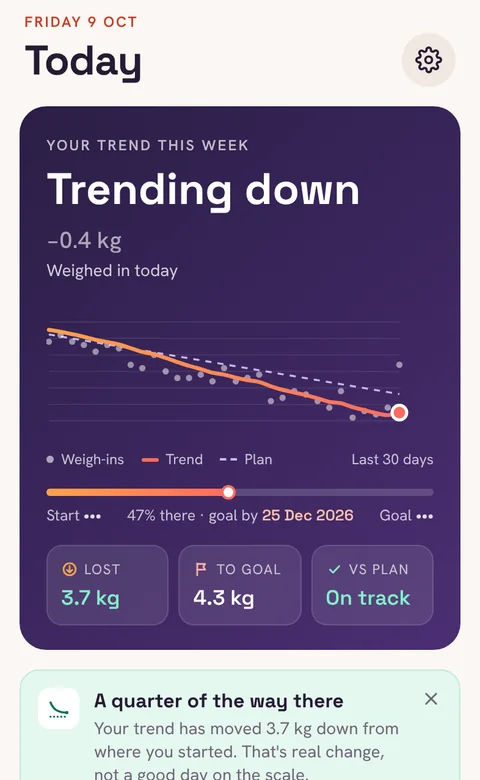
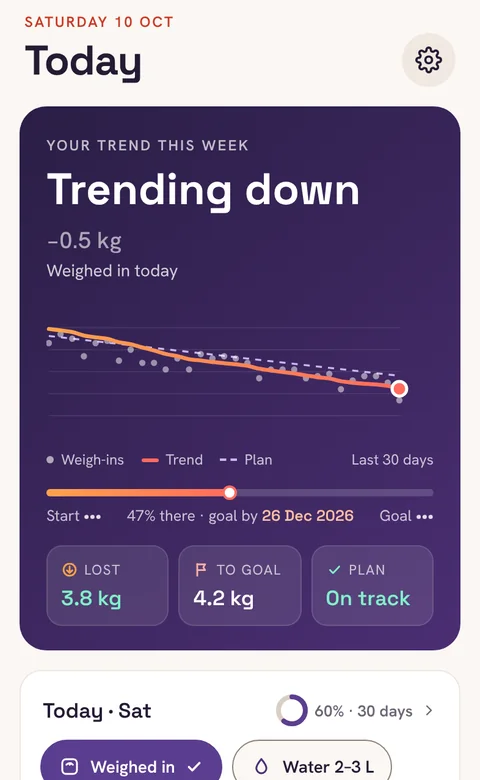
Website: refresh the images that show Today and the weigh-in sheet
The hero iPhone and five deck cards (Today, log weight, hide my weight,
dose, protein) are re-shot from the current app: today's list under the
hero, "Plan" on the chip, "What's this?" on trend weight, the folded
weigh-in sheet with a tag picked, and This week without the Pace tile.
Same framing and sizes as before; alt text updated to match.

Claude-Session: https://claude.ai/code/session_01NJzQ8Sbwud31aT5mXSmaWd

diff --git a/site/index.html b/site/index.html
@@ -353,7 +353,7 @@
 
       <div class="fan" id="fan">
         <figure class="card card-l"><img src="shots/device-duo.webp" width="880" height="1239" alt="An iPhone Duo opened out, showing the Trend screen: trend weight 88.2 kg, losing 0.5 kg a week, and a note that the last weigh-in dropped 0.8 kg while the trend moved 0.1 kg." decoding="async"></figure>
-        <figure class="card card-c"><img src="shots/device-iphone.webp" width="600" height="1260" alt="An iPhone showing the Today screen: trend weight 88.2 kg with the last 30 days charted behind it, daily weigh-ins as dots around a calm trend line and the plan dashed, then progress from 92 towards 84 kg and on track." decoding="async"></figure>
+        <figure class="card card-c"><img src="shots/device-iphone.webp" width="600" height="1260" alt="An iPhone showing the Today screen: trend weight 88.2 kg with the last 30 days charted behind it, daily weigh-ins as dots around a calm trend line and the plan dashed, then progress from 92 towards 84 kg, on track, and today’s list with the weigh-in ticked off." decoding="async"></figure>
         <figure class="card card-r"><img src="shots/device-android.webp" width="600" height="1302" alt="An Android phone showing the Habits screen: this week’s ticks for water, steps and sleep." decoding="async"></figure>
       </div>
 
@@ -389,7 +389,7 @@
       <div class="deck" id="deck" role="region" aria-roledescription="carousel" aria-label="What Tidemark does" tabindex="0">
         <div class="deck-pile">
           <figure class="deck-card tone-plum">
-            <div class="deck-screen"><img src="shots/deck/today.webp" width="480" height="780" alt="The Today screen: trend weight 88.2 kg with the last 30 days charted behind it, progress from 92 towards 84 kg, and on track." loading="lazy" decoding="async" draggable="false"></div>
+            <div class="deck-screen"><img src="shots/deck/today.webp" width="480" height="780" alt="The Today screen: trend weight 88.2 kg with the last 30 days charted behind it, progress from 92 towards 84 kg, on track, and today’s list starting with the weigh-in ticked off." loading="lazy" decoding="async" draggable="false"></div>
             <figcaption><span class="tag tag-now">In the app</span><h3>Today, at a glance</h3><p>Your trend with the last 30 days behind it: the weigh-ins jump about, the trend stays calm, and the plan is the dashed line.</p></figcaption>
           </figure>
           <figure class="deck-card tone-deep">
@@ -413,7 +413,7 @@
             <figcaption><span class="tag tag-now">In the app</span><h3>Consistency you can see</h3><p>Thirty days of each habit at a glance, and how often it really happens, not how long a streak lasted.</p></figcaption>
           </figure>
           <figure class="deck-card tone-plum">
-            <div class="deck-screen"><img src="shots/deck/hide.webp" width="480" height="780" alt="Today with hide my weight on: the headline says Trending down, 0.4 kg this week, with no weight shown." loading="lazy" decoding="async" draggable="false"></div>
+            <div class="deck-screen"><img src="shots/deck/hide.webp" width="480" height="780" alt="Today with hide my weight on: the headline says Trending down, 0.5 kg this week, with no weight shown." loading="lazy" decoding="async" draggable="false"></div>
             <figcaption><span class="tag tag-now">In the app</span><h3>See the trend, not the number</h3><p>Turn on Hide my weight and Tidemark shows which way you’re heading and by how much. Never the weight itself.</p></figcaption>
           </figure>
           <figure class="deck-card tone-deep">
